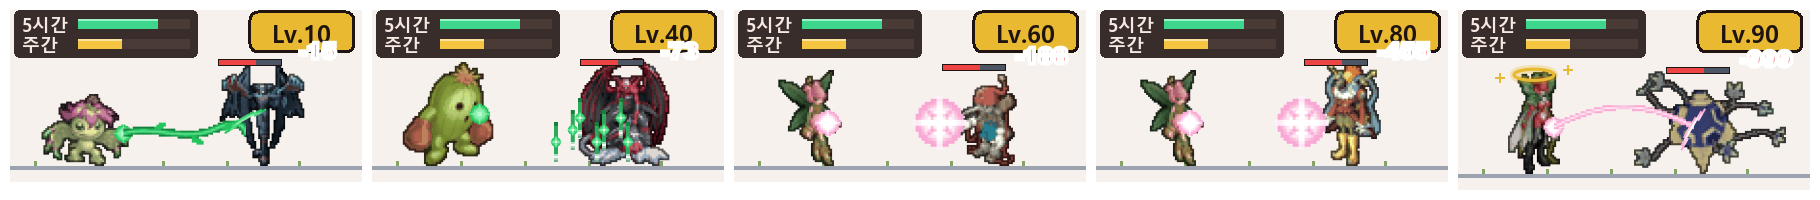
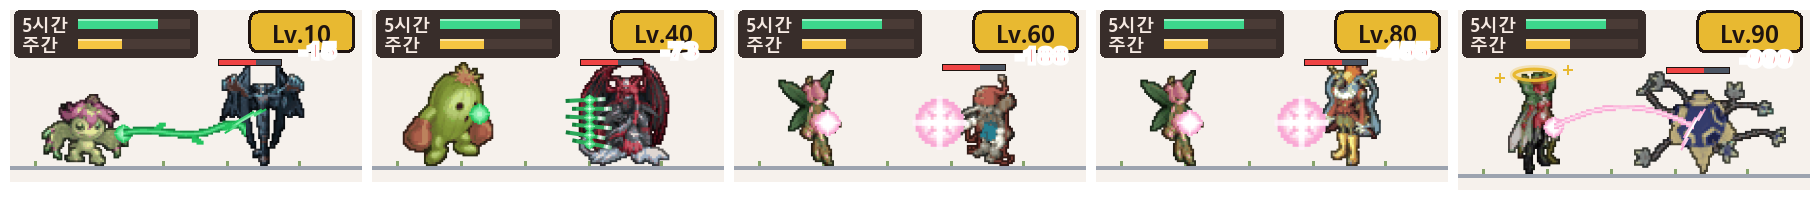
니들 스프레이: 바늘이 가로로 퍼져 날아감
Claude-Session: https://claude.ai/code/session_015vVPi6o8smr54imLjnt6SH

Changed region(s): [[0.2769, 0.48, 0.3692, 0.75]]

diff --git a/hooks/fx.ts b/hooks/fx.ts
@@ -308,7 +308,16 @@ const rainOf = (name: string, color: string, n: number, spread: number, rot = 0,
 export const meteorWing = (from: At, n = 3) => muzzle('#F26B21', '#FDE047', from, 1) + rainOf('fireball', '#F26B21', n, 7, 90, 0.9)
 export const starlight = (n = 5) => rainOf('star', '#FDE047', n, 9, 0, 1.1)
 export const sevenHeavens = () => rainOf('orb_holy', '#FDE68A', 7, 10)
-export const needleSpray = (from: At) => muzzle('#86EFAC', WHITE, from, 0.8) + rainOf('needle', '#86EFAC', 7, 9, 90, 1, 0.3)
+// 니들 스프레이: 몸에서 바늘 여럿이 위아래로 퍼지며 가로로 날아간다
+export const needleSpray = (from: At, n = 6) => {
+  let out = muzzle('#86EFAC', WHITE, from, 0.8)
+  for (let i = 0; i < n; i++) {
+    const dy = (i - (n - 1) / 2) * 1.1
+    const a = at(0.44 + (i % 3) * 0.02)
+    out += fly(art('needle'), [from[0], at(from[1] + dy * 0.4)], [HIT_X + 1 + (i % 2) * 0.8, at(7.5 + dy)], a, at(a + 0.16)) + impact('#86EFAC', HIT_X + 1.5, at(7.5 + dy), 0.3)
+  }
+  return out
+}
 export const rockRain = (n = 4) => rainOf('rock', '#9CA3AF', n, 8)
 export const rain = (_rows: unknown, _pal: unknown, color: string, n = 3, scale = 1, spread = 7) => rainOf('orb_white', color, n, spread, 0, scale)
 
